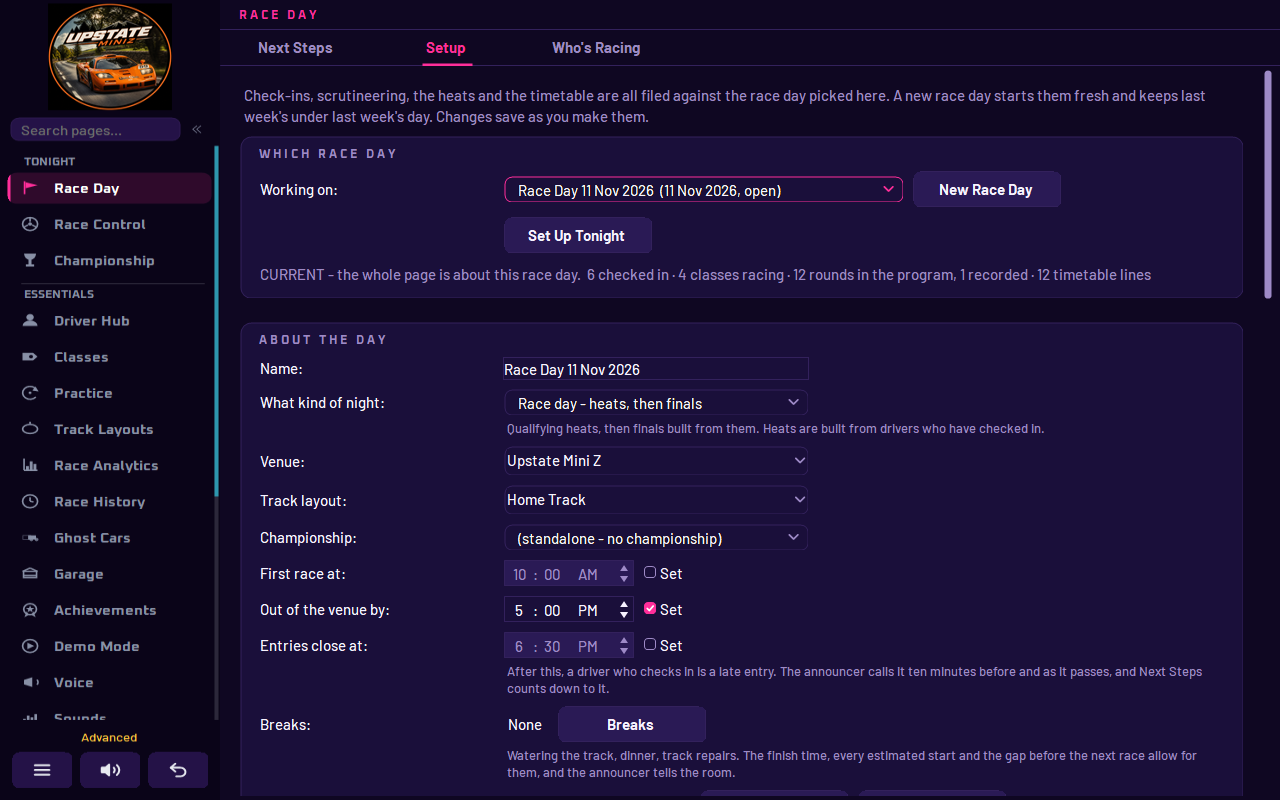
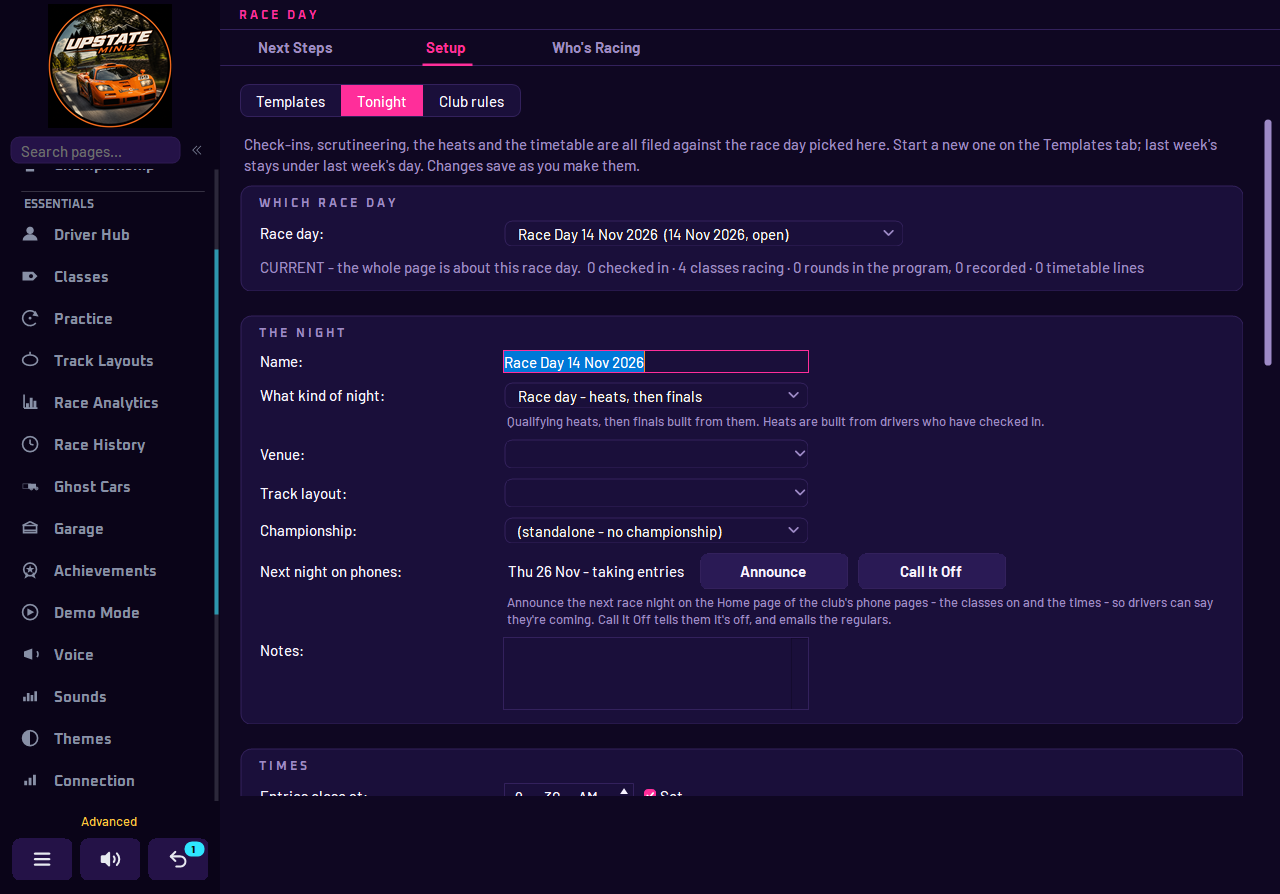
Guide: new Setup screenshots for Templates, Tonight and Club rules

diff --git a/website/docs/race-day/events-and-entries.md b/website/docs/race-day/events-and-entries.md
@@ -93,13 +93,13 @@ Every step can be skipped, and **Skip setup** leaves the wizard at any point. A 
 
 Setup opens on **Templates** while no race day is open, and on **Tonight** once one is. A tab you pick yourself stays picked until a night is started or closed.
 
-![Race Day, Setup tab: Race Day 11 Nov 2026 picked under Which race day with New Race Day and Set Up Tonight, and About the day with the kind of night, venue, track, First race at, Out of the venue by, Entries close at and Breaks](../assets/images/race-day-setup.png)
-
-<!-- screenshot: the picture above is from before the Templates, Tonight and Club rules tabs (14 Nov 2026); retake it on Templates and on Tonight -->
+![Race Day, Setup, Tonight tab: Race Day 14 Nov 2026 picked under Which race day, and The night card with the name, kind of night, venue, track layout, championship, Next night on phones and notes](../assets/images/race-day-setup.png)
 
 There's no Save button. Every change saves itself as you make it, and a **Saved** note appears for a moment after the **Close Day**, **Delete Day** and **Save as Template...** buttons. Typing in a box is saved when you pause or move to another field, and a run of typing is one step for **Undo**.
 
 ### Templates
+
+![Race Day, Setup, Templates tab: the banner says Points round is set for tonight with its forecast, Start Tonight and Walk me through it, and cards for Like last time, Tuesday club night and Points round](../assets/images/race-day-setup-templates.png)
 
 A template is a night's settings kept under a name, such as "Tuesday club night" and "Points round": its kind of night, classes and running order, rounds, heat size, seeding, fees, times, breaks, between-race talk and check-in rule. Never its heats, check-ins or results.
 
@@ -171,6 +171,8 @@ The line under the picker shows what the selected day already holds, for example
 | **Between-race talk:** | How much the announcer says between races on this day: **The club's Between races settings**, or one of the presets (**Club night**, **Race day**, **Big event**, **Just the call-ups**) over them for this day only. See [Between races](../announcer/commentary.md#between-races). | From the last day of the same kind, or the club's Between races settings |
 
 ### Club rules
+
+![Race Day, Setup, Club rules tab: The heats, Marshals, Papers and End of the night cards](../assets/images/race-day-setup-club-rules.png)
 
 The **Club rules** tab has the settings that are the club's, for every night, not just tonight. A change saves straight away and holds for the next night too.
 
